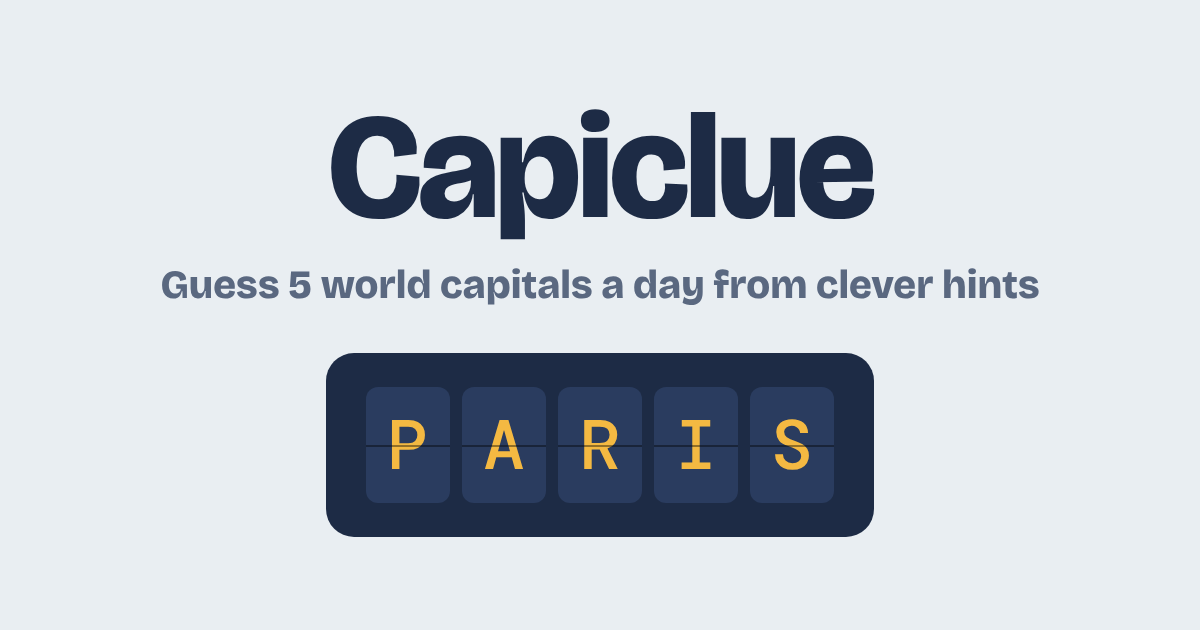
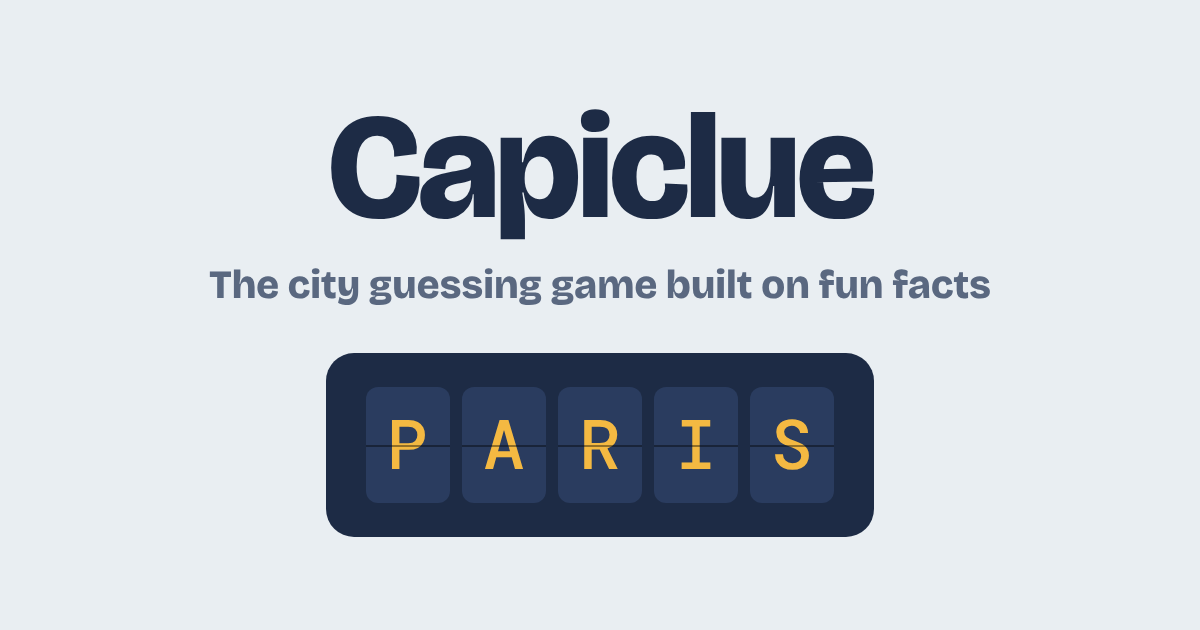
Reposition as a city guessing game built on fun facts
Claude-Session: https://claude.ai/code/session_01Js8PMLcMvXiYffoY2Kd8dr

Changed region(s): [[0.1233, 0.4222, 0.8633, 0.4825]]

diff --git a/index.html b/index.html
@@ -3,8 +3,8 @@
 <head>
 <meta charset="UTF-8">
 <meta name="viewport" content="width=device-width, initial-scale=1, viewport-fit=cover">
-<title>Capiclue – Daily Capital Cities Quiz Game</title>
-<meta name="description" content="Capiclue is a free daily geography game. Guess five world capital cities a day from clever hints – the earlier you guess, the more points you score. New cities every day.">
+<title>Capiclue – Guess the City from Fun Facts | Daily Geography Game</title>
+<meta name="description" content="Capiclue is a free daily city guessing game built on fun facts. Read surprising trivia about a mystery capital and guess the city – the fewer facts you need, the more points you score. Five new cities every day.">
 <link rel="canonical" href="https://capiclue.com/">
 <meta name="theme-color" content="#1D2B45">
 <link rel="icon" href="/favicon.svg" type="image/svg+xml">
@@ -12,20 +12,20 @@
 <meta property="og:type" content="website">
 <meta property="og:site_name" content="Capiclue">
 <meta property="og:url" content="https://capiclue.com/">
-<meta property="og:title" content="Capiclue – Daily Capital Cities Quiz">
-<meta property="og:description" content="Guess five world capitals a day from clever hints. New cities every day.">
+<meta property="og:title" content="Capiclue – Guess the City from Fun Facts">
+<meta property="og:description" content="A daily city guessing game built on surprising fun facts. Five mystery capitals, new every day.">
 <meta property="og:image" content="https://capiclue.com/og-image.png">
 <meta property="og:image:width" content="1200">
 <meta property="og:image:height" content="630">
 <meta property="og:image:alt" content="Capiclue logo above the word PARIS spelled out in flip-board tiles">
 <meta name="twitter:card" content="summary_large_image">
-<meta name="twitter:title" content="Capiclue – Daily Capital Cities Quiz">
-<meta name="twitter:description" content="Guess five world capitals a day from clever hints. New cities every day.">
+<meta name="twitter:title" content="Capiclue – Guess the City from Fun Facts">
+<meta name="twitter:description" content="A daily city guessing game built on surprising fun facts. Five mystery capitals, new every day.">
 <meta name="twitter:image" content="https://capiclue.com/og-image.png">
 <script type="application/ld+json">
 {"@context":"https://schema.org","@type":"WebApplication","name":"Capiclue","url":"https://capiclue.com/",
- "applicationCategory":"GameApplication","genre":"Geography quiz","operatingSystem":"Any (web browser)",
- "description":"A free daily geography game: guess five world capital cities a day from hints that get easier as you go.",
+ "applicationCategory":"GameApplication","genre":"Geography trivia","operatingSystem":"Any (web browser)",
+ "description":"A free daily city guessing game: read fun facts about a mystery capital and guess the city. The fewer facts you need, the more points you score.",
  "offers":{"@type":"Offer","price":"0","priceCurrency":"USD"}}
 </script>
 <link rel="preconnect" href="https://fonts.googleapis.com">
@@ -126,11 +126,11 @@ button:hover{filter:brightness(1.12)} .link:hover{color:var(--ink);filter:none}
 <main>
 <section id="home">
   <h1>Capiclue</h1>
-  <p class="intro">Guess five of the world’s capital cities every day. Each hint gets easier, but earns fewer points.</p>
+  <p class="intro">The city guessing game built on fun facts. Every day, five mystery capitals, each one hiding behind surprising trivia.</p>
   <ol class="how">
-    <li>Read a hint about a mystery capital and type your guess.</li>
-    <li>Guess early for more points: 20, 15, 10 or 5.</li>
-    <li>Five new cities every day. The best score is 100.</li>
+    <li>Read a fun fact about a mystery city and type your guess.</li>
+    <li>Stuck? Unlock another fact. Each one is easier, but worth fewer points: 20, 15, 10 or 5.</li>
+    <li>Five new cities every day. Can you score 100?</li>
   </ol>
   <div class="homecard">
     <p class="dayline" id="homeDay">Day 1</p>
@@ -141,7 +141,8 @@ button:hover{filter:brightness(1.12)} .link:hover{color:var(--ink);filter:none}
   </div>
   <section class="about">
     <h2>About Capiclue</h2>
-    <p>Capiclue is a free daily capital cities quiz. Every day there are five mystery capitals from around the world, from Europe and Asia to Africa, the Americas and Oceania. Each one comes with up to four hints, starting tricky and getting easier, so you can test your geography and learn something new about the world in a few minutes.</p>
+    <p>Capiclue is a free daily city guessing game where every clue is a fun fact. Instead of maps or flags, you get surprising trivia: a city with a Museum of Broken Relationships, a capital whose giant Ferris wheel has turned since 1897, a place nicknamed the “Jerusalem of Europe”. Can you name the city?</p>
+    <p>Each day brings five mystery capitals from Europe, Asia, Africa, the Americas and Oceania, with up to four facts each, starting tricky and getting easier. Even when you miss one, you walk away knowing something new about the world.</p>
     <p>No sign-up, no download: it works on any phone, tablet or computer.</p>
   </section>
 </section>
@@ -170,7 +171,7 @@ button:hover{filter:brightness(1.12)} .link:hover{color:var(--ink);filter:none}
       <button type="submit">Guess</button>
     </form>
     <p class="wrong" id="wrong"></p>
-    <button class="link" id="skip" type="button">Show the next hint</button>
+    <button class="link" id="skip" type="button">Show another fact</button>
   </div>
 
   <div class="result hidden" id="result">
@@ -687,7 +688,7 @@ function renderHome(){
     $("playBtn").textContent="Continue";
   }else{
     $("homeTitle").textContent="Today’s five capitals";
-    $("homeStatus").textContent="Five new mystery capitals are waiting for you.";
+    $("homeStatus").textContent="Five new mystery cities and their fun facts are waiting.";
     $("playBtn").textContent="Play";
   }
   $("homeCountdown").classList.toggle("hidden",n<PER_DAY);
@@ -756,10 +757,10 @@ function drawTiles(reveal){
 function showClue(){
   const li=document.createElement("li"); li.className="clue";
   const p=POINTS[clueNo];
-  li.innerHTML=`<span class="pts">${p} pts</span><span><strong>Hint ${clueNo+1}:</strong> ${set[idx].clues[clueNo]}</span>`;
+  li.innerHTML=`<span class="pts">${p} pts</span><span><strong>Fact ${clueNo+1}:</strong> ${set[idx].clues[clueNo]}</span>`;
   $("clues").appendChild(li);
   if(clueNo===3)drawTiles(false);
-  $("skip").textContent=`Show the next hint (${POINTS[clueNo+1]??0} pts)`;
+  $("skip").textContent=`Show another fact (${POINTS[clueNo+1]??0} pts)`;
   $("skip").classList.toggle("hidden",clueNo===3);
 }
 function nextClue(){ if(clueNo<3){clueNo++;showClue();save()} else finish(false) }
@@ -778,7 +779,7 @@ $("form").addEventListener("submit",e=>{
   const raw=$("guess").value.trim(), g=norm(raw); if(!g)return;
   const city=set[idx];
   if([city.c,...city.alt].some(x=>norm(x)===g)) return finish(true);
-  $("wrong").textContent=clueNo<3?`Not ${raw}. Here’s another hint.`:`Not ${raw}.`;
+  $("wrong").textContent=clueNo<3?`Not ${raw}. Here’s another fact.`:`Not ${raw}.`;
   $("guess").value=""; nextClue();
 });
 $("skip").addEventListener("click",()=>{$("wrong").textContent="";nextClue()});
